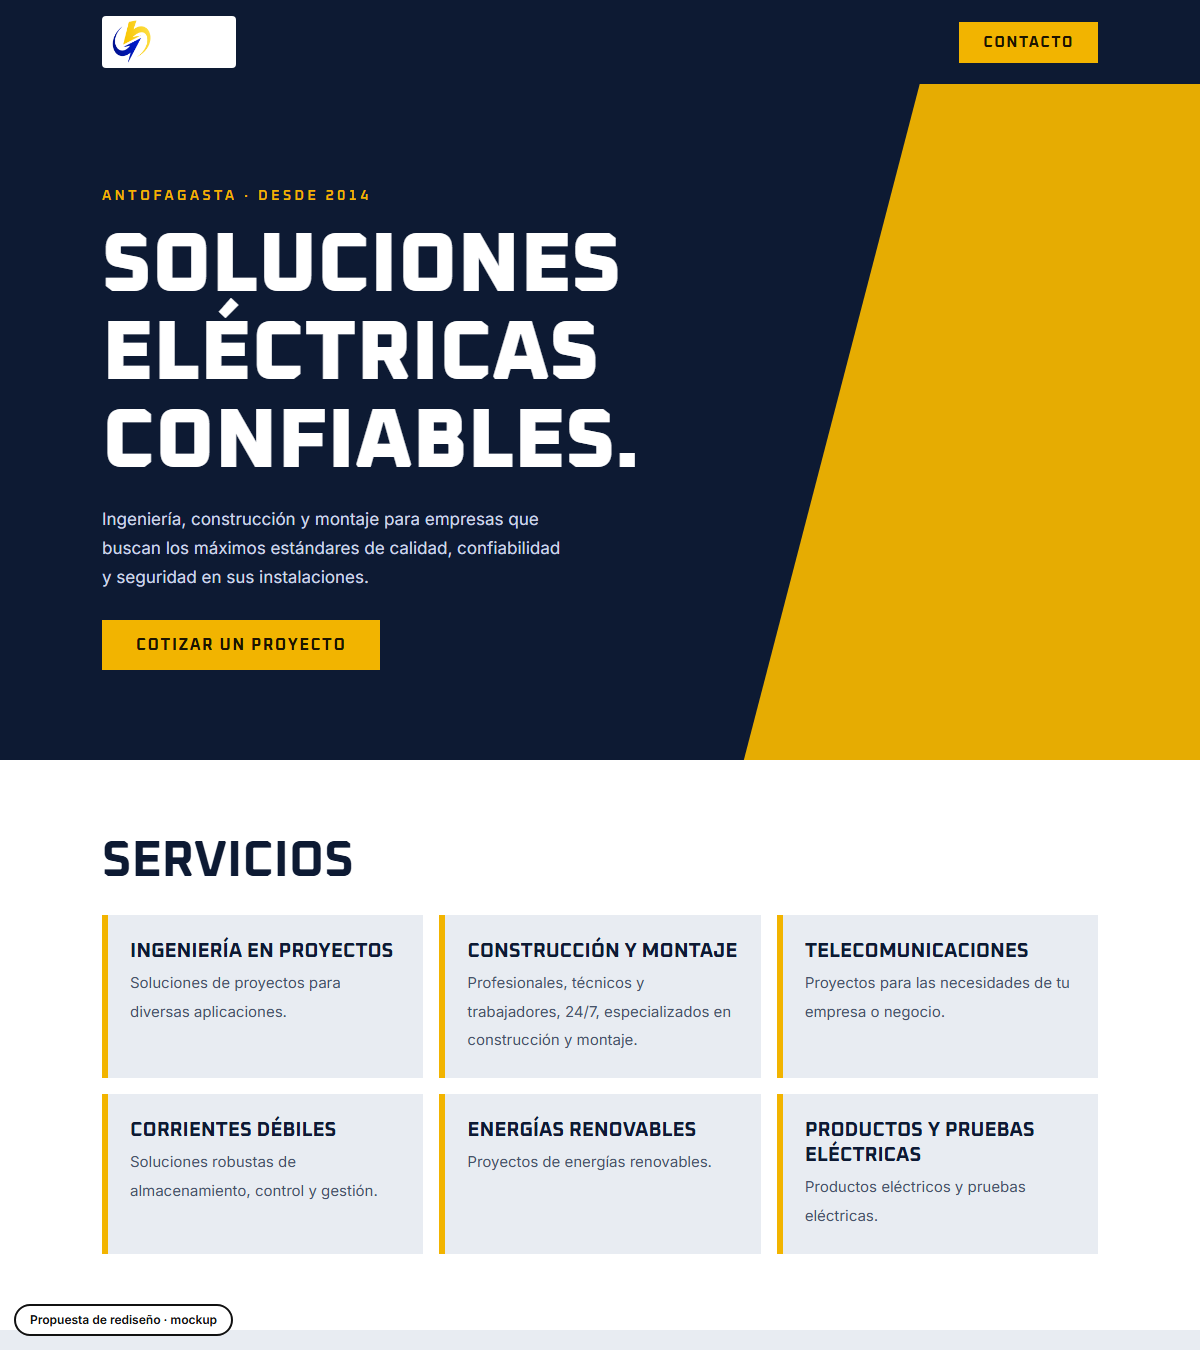
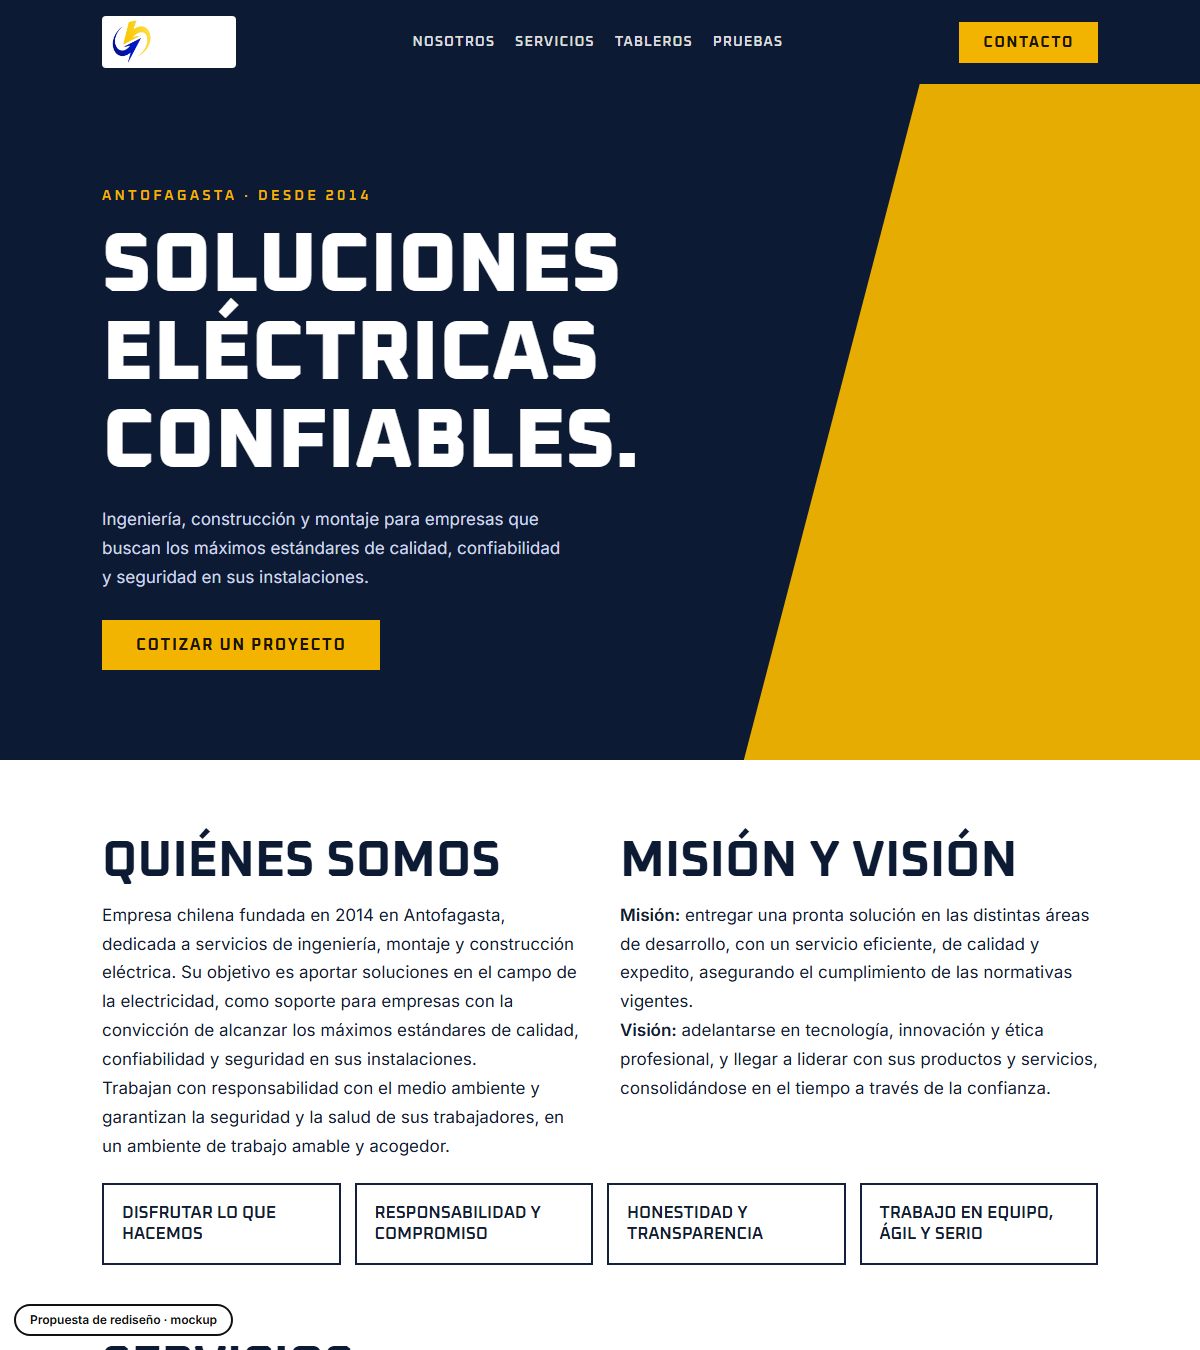
Mockup: wkv-ingenieria-antofagasta

Changed region(s): [[0.0617, 0.6222, 0.8942, 0.9333], [0.0925, 0.9956, 0.3083, 1.0]]

diff --git a/wkv-ingenieria-antofagasta/index.html b/wkv-ingenieria-antofagasta/index.html
@@ -6,12 +6,12 @@
 <link href="https://fonts.googleapis.com/css2?family=Oxanium:wght@500;600;700;800&family=Inter:wght@400;500;600&display=swap" rel="stylesheet">
 <style>
 :root{--volt:#f2b400;--navy:#0d1a33;--steel:#e8ecf2;--ink:#131d30}
-*{box-sizing:border-box;margin:0}html{scroll-behavior:smooth}
+*{box-sizing:border-box;margin:0}html{scroll-behavior:smooth;scroll-padding-top:100px}
 @media(prefers-reduced-motion:reduce){html{scroll-behavior:auto}}
 body{background:#fff;color:var(--ink);font:400 17px/1.7 Inter,sans-serif}
 .wrap{max-width:1040px;margin:0 auto;padding:0 22px}
 h1,h2,h3{font-family:Oxanium,sans-serif;line-height:1.05;text-transform:uppercase}
-header{background:var(--navy)}header .wrap{display:flex;justify-content:space-between;align-items:center;min-height:84px;gap:12px}
+header{position:sticky;top:0;z-index:20;background:var(--navy)}header .wrap{display:flex;justify-content:space-between;align-items:center;min-height:84px;gap:12px}
 header img{height:52px;background:#fff;padding:4px 10px;border-radius:4px}header a.b{background:var(--volt);color:#1c1400;text-decoration:none;padding:11px 24px;font:700 15px Oxanium;letter-spacing:.1em;text-transform:uppercase}
 header a.b:hover{background:#fff}
 .hero{background:var(--navy);color:#fff;position:relative;overflow:hidden}
@@ -29,13 +29,21 @@ section{padding:76px 0}h2{font-size:clamp(30px,4.6vw,50px);margin-bottom:12px;fo
 .contact{background:var(--navy);color:#fff;text-align:center}.contact h2{color:#fff}.contact a.l{display:block;font:800 clamp(32px,5.6vw,60px) Oxanium;color:var(--volt);text-decoration:none;margin:8px 0}
 .contact a.l:hover{color:#fff}
 footer{padding:22px 0 90px;text-align:center;font-size:13px;color:#667}
-.mock{position:fixed;left:14px;bottom:14px;background:#fff;color:#111;border:2px solid #111;font:600 12px/1 Inter;padding:8px 14px;border-radius:30px;z-index:9}
+.mock{z-index:30;position:fixed;left:14px;bottom:14px;background:#fff;color:#111;border:2px solid #111;font:600 12px/1 Inter;padding:8px 14px;border-radius:30px;z-index:9}
 @media(max-width:820px){.sv,.about .g{grid-template-columns:1fr}.hero:after{width:100%;opacity:.12;clip-path:none}.hero .wrap{padding:60px 22px}}
-</style></head><body>
-<header><div class="wrap"><img src="assets/Logo-WKV-420.png" alt="WKV"><a class="b" href="#contacto">Contacto</a></div></header>
+nav{display:flex;gap:20px;font:600 14px Oxanium;letter-spacing:.08em;text-transform:uppercase}nav a{color:#ddd;text-decoration:none}nav a:hover{color:var(--volt,#f4e000)}.bl{list-style:none;padding:0;margin-top:10px}.bl li{padding:4px 0 4px 20px;position:relative;font-size:15.5px;color:#3c4350}.bl li:before{content:"";position:absolute;left:0;top:15px;width:10px;height:3px;background:#f2c200}.dk .bl li{color:#cfd3da}.svx{display:grid;grid-template-columns:repeat(2,1fr);gap:18px;margin-top:26px}.svx>div{background:#fff;border:2px solid #14213d;padding:30px 28px;border-top:8px solid #f2c200}.svx h3{font:700 24px Oxanium;text-transform:uppercase;margin-bottom:8px;color:#14213d}.svx p{font-size:16px;color:#3c4350;margin-bottom:6px}.svx h4{font:700 14px Oxanium;letter-spacing:.1em;text-transform:uppercase;margin:14px 0 2px;color:#14213d}.dk{background:#14213d;color:#fff}.dk h2{color:#fff}.dk .svx>div{background:#1d2c4f;border-color:#2c3d66;border-top-color:#f2c200}.dk .svx h3,.dk .svx h4{color:#fff}.dk .svx p{color:#cfd3da}.val{display:grid;grid-template-columns:repeat(4,1fr);gap:14px;margin-top:22px}.val div{border:2px solid #14213d;padding:18px;font:600 17px Oxanium;text-transform:uppercase}@media(max-width:860px){nav{display:none}.svx,.val{grid-template-columns:1fr}}</style></head><body>
+<header><div class="wrap"><img src="assets/Logo-WKV-420.png" alt="WKV"><nav><a href="#nosotros">Nosotros</a><a href="#servicios">Servicios</a><a href="#tableros">Tableros</a><a href="#pruebas">Pruebas</a></nav><a class="b" href="#contacto">Contacto</a></div></header>
 <div class="hero"><div class="wrap"><small>Antofagasta · Desde 2014</small><h1>Soluciones eléctricas confiables.</h1><p>Ingeniería, construcción y montaje para empresas que buscan los máximos estándares de calidad, confiabilidad y seguridad en sus instalaciones.</p><a class="btn" href="https://wa.me/56954133202?text=Hola%2C%20quisiera%20cotizar%20un%20proyecto%20el%C3%A9ctrico">Cotizar un proyecto</a></div></div>
-<section><div class="wrap"><h2>Servicios</h2><div class="sv"><div><b>Ingeniería en proyectos</b><span>Soluciones de proyectos para diversas aplicaciones.</span></div><div><b>Construcción y montaje</b><span>Profesionales, técnicos y trabajadores, 24/7, especializados en construcción y montaje.</span></div><div><b>Telecomunicaciones</b><span>Proyectos para las necesidades de tu empresa o negocio.</span></div><div><b>Corrientes débiles</b><span>Soluciones robustas de almacenamiento, control y gestión.</span></div><div><b>Energías renovables</b><span>Proyectos de energías renovables.</span></div><div><b>Productos y pruebas eléctricas</b><span>Productos eléctricos y pruebas eléctricas.</span></div></div></div></section>
-<section class="about"><div class="wrap g"><div><h2>Quiénes somos</h2><p>Empresa chilena fundada en 2014 en Antofagasta. Aportamos soluciones en el campo de la electricidad, como soporte para empresas que buscan los máximos estándares.</p></div><div><h2>Misión</h2><p>Entregar una pronta solución en las distintas áreas de desarrollo, con un servicio eficiente, de calidad y expedito, asegurando el cumplimiento de las normativas vigentes.</p></div></div></section>
+<section id="nosotros"><div class="wrap"><div class="g" style="display:grid;grid-template-columns:1fr 1fr;gap:40px"><div><h2>Quiénes somos</h2><p>Empresa chilena fundada en 2014 en Antofagasta, dedicada a servicios de ingeniería, montaje y construcción eléctrica. Su objetivo es aportar soluciones en el campo de la electricidad, como soporte para empresas con la convicción de alcanzar los máximos estándares de calidad, confiabilidad y seguridad en sus instalaciones.</p><p>Trabajan con responsabilidad con el medio ambiente y garantizan la seguridad y la salud de sus trabajadores, en un ambiente de trabajo amable y acogedor.</p></div><div><h2>Misión y visión</h2><p><b>Misión:</b> entregar una pronta solución en las distintas áreas de desarrollo, con un servicio eficiente, de calidad y expedito, asegurando el cumplimiento de las normativas vigentes.</p><p><b>Visión:</b> adelantarse en tecnología, innovación y ética profesional, y llegar a liderar con sus productos y servicios, consolidándose en el tiempo a través de la confianza.</p></div></div><div class="val"><div>Disfrutar lo que hacemos</div><div>Responsabilidad y compromiso</div><div>Honestidad y transparencia</div><div>Trabajo en equipo, ágil y serio</div></div></div></section>
+<section id="servicios" style="padding-top:0"><div class="wrap"><h2>Servicios</h2><div class="svx">
+<div><h3>Ingeniería en proyectos</h3><h4>Proyectos en redes</h4><ul class="bl"><li>Edificios (habitaciones y oficinas), viviendas y condominios</li><li>Supermercados y grandes tiendas</li><li>Urbanización de redes en AT y BT y extensiones de redes</li><li>Alumbrado público y validación</li><li>Unidades transformadoras y grupos electrógenos</li><li>Salas eléctricas, iluminación y proyectos industriales</li></ul><h4>Energías renovables no convencionales</h4><p>Proyectos de generación con paneles fotovoltaicos, en plantas solares para inyección a la red o sistemas de autoconsumo.</p><h4>Telecomunicaciones (ley 20.808)</h4><p>Proyectos y dimensionamiento según el reglamento y la norma técnica de la ley de ductos.</p></div>
+<div><h3>Construcción y montaje</h3><p>Profesionales, técnicos y trabajadores meticulosos, 24/7:</p><ul class="bl"><li>Urbanización en media y baja tensión, y alumbrado público</li><li>Sistemas de puesta a tierra</li><li>Verticales de edificios residenciales y oficinas</li><li>Empalmes en baja y media tensión</li><li>Transformadores pad mounted y secos, y celdas</li><li>Bóvedas y salas eléctricas</li><li>Instalaciones interiores: conjuntos habitacionales, comercio, supermercados, clínicas, hospitales e industrias</li></ul></div>
+<div><h3>Telecomunicaciones</h3><h4>Plan del ducto</h4><ul class="bl"><li>Diseño: registro del proyecto inmobiliario (RPI), planimetría y especificaciones técnicas</li><li>Montaje de la red interna de telecomunicaciones (RIT)</li><li>Certificación de la red e informe favorable, y mantenciones periódicas</li></ul><h4>Sistemas de amplificación de señal</h4><ul class="bl"><li>Sin llamadas caídas y con datos más rápidos y estables</li><li>Señal fuerte en áreas con poca recepción</li><li>Compatible con 700/800/1900/2100 MHz; equipos Wilson</li></ul></div>
+<div><h3>Corrientes débiles</h3><p>Equipo con vasta experiencia en soluciones robustas de almacenamiento, control y gestión.</p><ul class="bl"><li>Control de acceso y asistencia</li><li>Citofonía: citófonos, centrales, portero eléctrico y videoportero</li><li>Cercos eléctricos y rayos infrarrojos perimetrales</li><li>Alarma con aviso por SMS</li><li>Detección de humo, gases y químicos por aspiración de aire</li></ul></div></div></div></section>
+<section class="dk" id="tableros"><div class="wrap"><h2>Energías renovables y productos eléctricos</h2><div class="svx">
+<div><h3>Energías renovables</h3><ul class="bl"><li>Instalación de paneles solares</li><li>Cálculo de cargas y celdas, y de autonomía de baterías</li><li>Estructuras y soportes para paneles: parrillas, postes, torres y brazos</li><li>Instalación de balizas solares para torres</li></ul></div>
+<div><h3>Tableros y equipamiento eléctrico</h3><p>Diseño, confección y armado de tableros para industria, edificios, clínicas, hospitales y supermercados, con la normativa vigente y normas nacionales e internacionales (UL, CSA, NEMA, IEC).</p><ul class="bl"><li>Tableros de fuerza, de control y de alumbrado</li><li>Tableros de faena certificada</li><li>Banco de condensadores y CCM</li><li>Transferencias automáticas</li></ul></div></div></div></section>
+<section id="pruebas"><div class="wrap"><h2>Pruebas eléctricas</h2><div class="val" style="grid-template-columns:repeat(5,1fr)"><div>Aislación</div><div>Puesta a tierra</div><div>Termografía</div><div>Calidad y energía</div><div>Iluminación</div></div></div></section>
 <section class="contact" id="contacto"><div class="wrap"><h2>Cotiza con WKV</h2><a class="l" href="https://wa.me/56954133202">+56 9 5413 3202</a><p>Osorno 4320, Antofagasta<br><a style="color:#fff" href="mailto:contacto@wkv-electricidad.com">contacto@wkv-electricidad.com</a></p></div></section>
 <footer>WKV · INGENIERÍA, MONTAJE, CONSTRUCCIÓN Y ELECTRICIDAD EIRL</footer>
 <div class="mock">Propuesta de rediseño · mockup</div></body></html>
